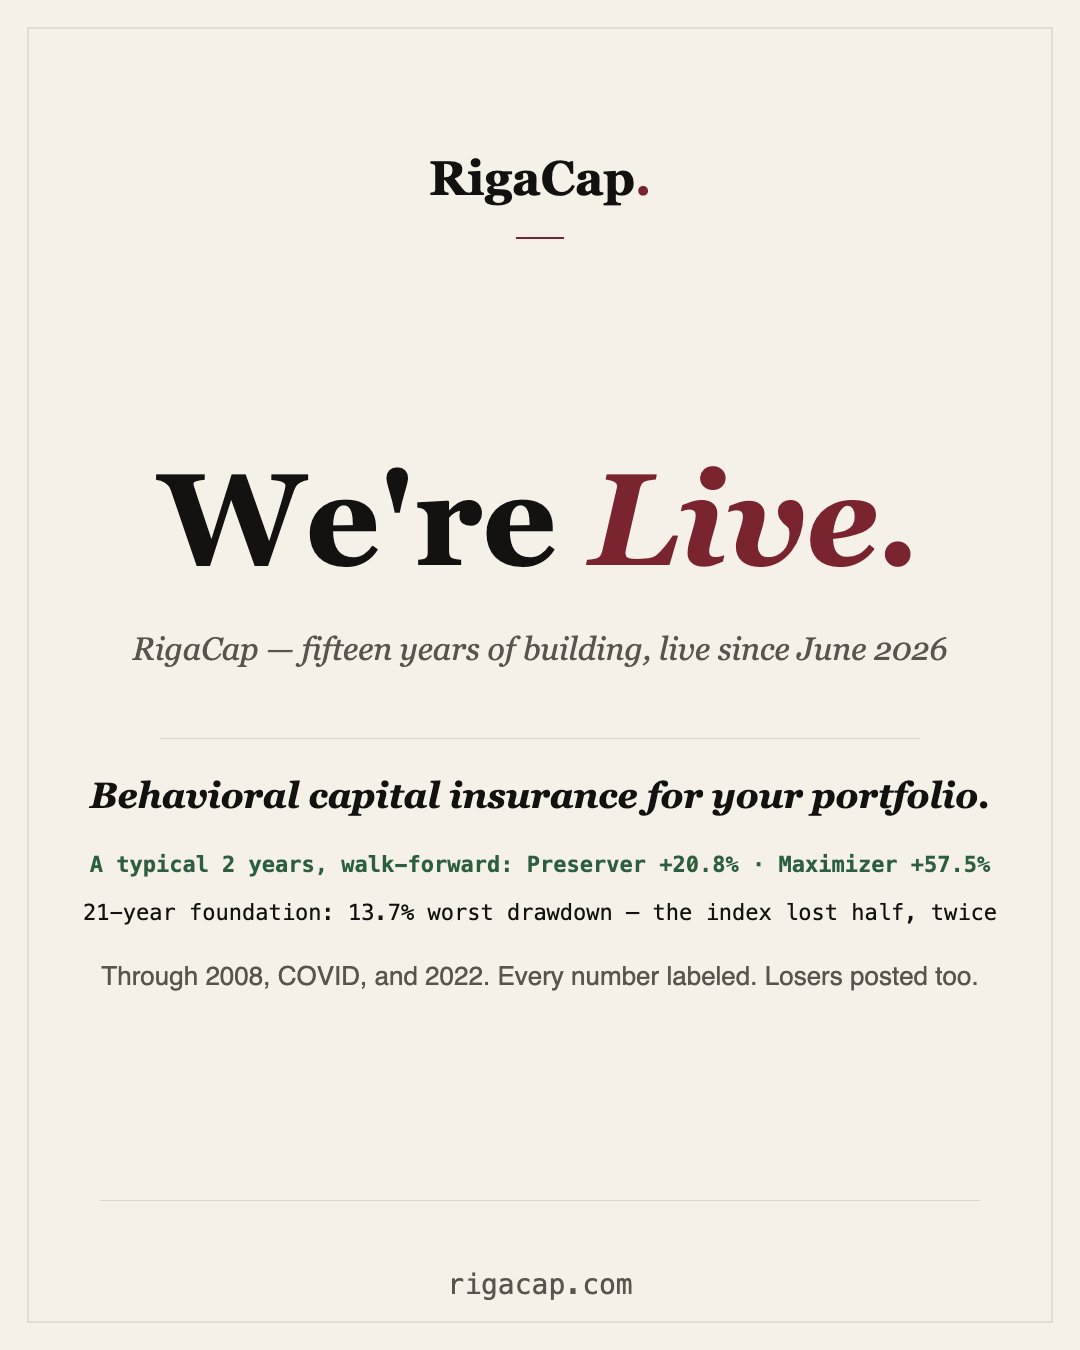
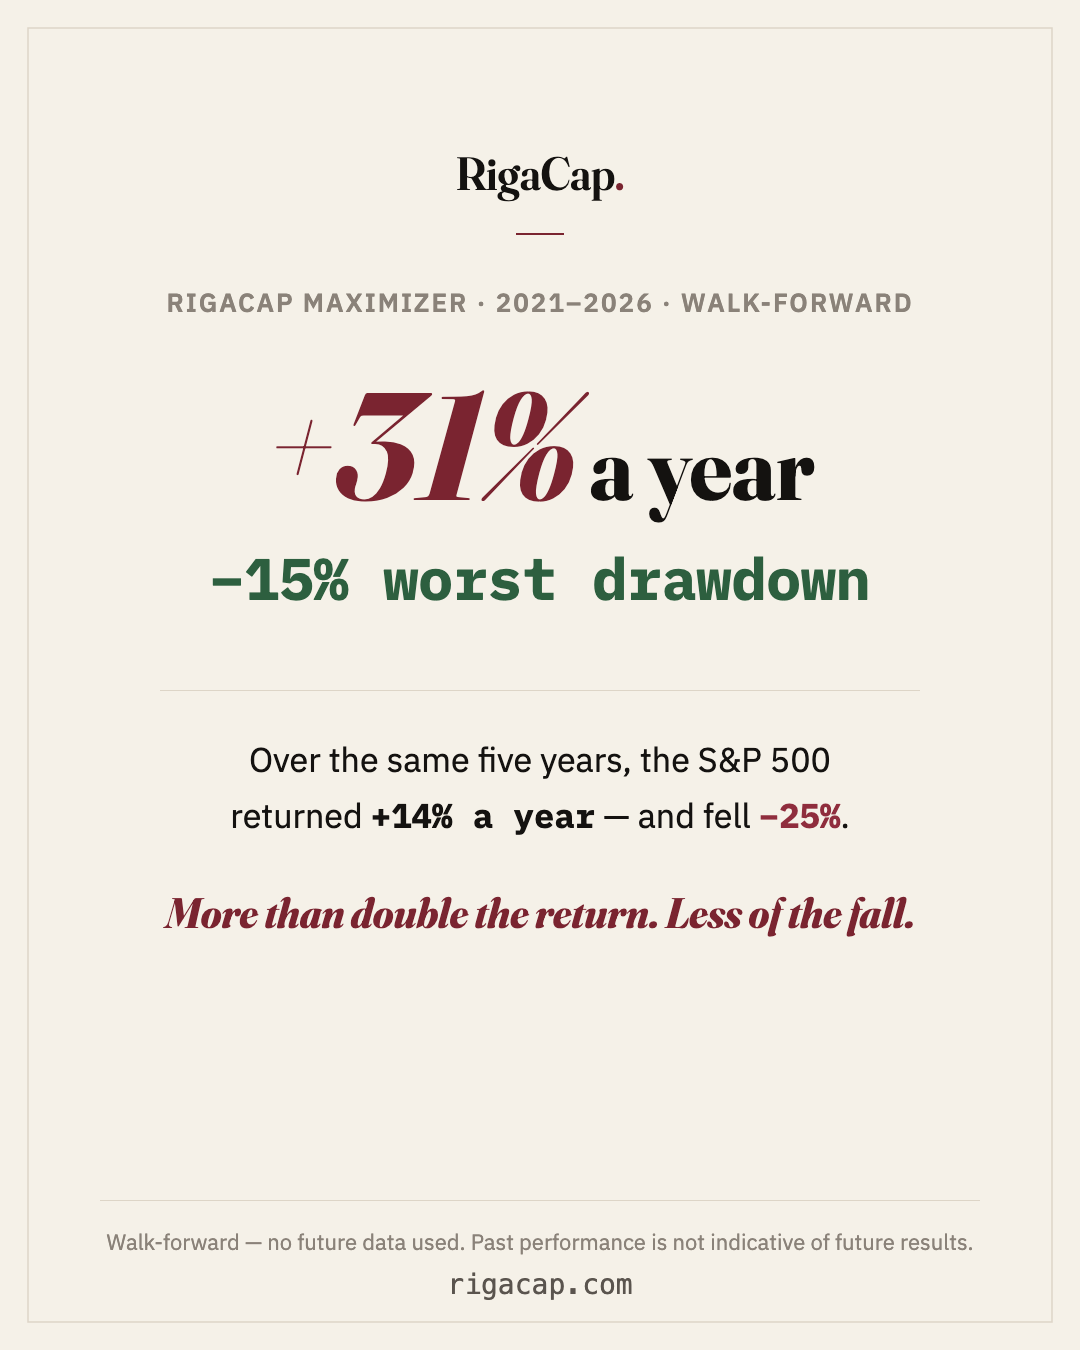
Launch cards: growth-forward refresh on current walk-forward numbers
The set was underselling — leading with the calm/defense story and hiding the strongest,
most current numbers (3 cards were stale from July 8). New arc leads with results:
1. The hook — Maximizer +31%/yr at only -15% drawdown vs the S&P's +14%/-25% (2021-26).
2. Bear defense — 2008 market -38%, RigaCap flat; ~a quarter of the market's downside.
3. The long game — 21-yr table (Maximizer leads), return beats the index at a fraction
   of the fall.
4. How it works (3-factor) — unchanged.
5. Signal teaser CTA — unchanged.

All numbers single-sourced from the overlay SSOT (perf_numbers). Loud on the numbers,
calm in the voice; every figure labeled walk-forward with disclaimers intact.

diff --git a/design/brand/social-launch-cards.html b/design/brand/social-launch-cards.html
@@ -25,24 +25,24 @@
 <p class="subtitle">Right-click any card and "Save Image As..." to download. All cards are 1080x1350 (4:5 ratio for Instagram).</p>
 <div class="grid">
   <div class="card-wrapper">
-    <h3>1. Launch Announcement</h3>
+    <h3>1. The Numbers</h3>
     <canvas id="card1" width="1080" height="1350"></canvas>
-    <p class="hint">We're Live</p>
+    <p class="hint">+31% a year, −15% drawdown</p>
   </div>
   <div class="card-wrapper">
-    <h3>2. 21-Year Results</h3>
+    <h3>2. Built for Bad Months</h3>
     <canvas id="card2" width="1080" height="1350"></canvas>
-    <p class="hint">Twenty-one years, walk-forward</p>
+    <p class="hint">Bear-market defense</p>
   </div>
   <div class="card-wrapper">
-    <h3>3. How the System Works</h3>
+    <h3>3. Twenty-One-Year Record</h3>
     <canvas id="card3" width="1080" height="1350"></canvas>
-    <p class="hint">3-Factor Entry + Exits</p>
+    <p class="hint">The long game, walk-forward</p>
   </div>
   <div class="card-wrapper">
-    <h3>4. The Months That Matter</h3>
+    <h3>4. How the System Works</h3>
     <canvas id="card4" width="1080" height="1350"></canvas>
-    <p class="hint">Worst months vs the system</p>
+    <p class="hint">3-Factor Entry + Exits</p>
   </div>
   <div class="card-wrapper">
     <h3>5. Signal Teaser</h3>
@@ -154,7 +154,7 @@ function drawFooter(ctx, w, h, note) {
   ctx.fillText('rigacap.com', w / 2, h - 56);
 }
 
-// Draw text, shrinking the font size until it fits maxWidth.
+// Hand-drawn sharpie ellipse — circles the number that is the product.
 function sharpieEllipse(ctx, cx, cy, rx, ry) {
   ctx.save();
   ctx.strokeStyle = CLARET;
@@ -175,6 +175,7 @@ function sharpieEllipse(ctx, cx, cy, rx, ry) {
   ctx.restore();
 }
 
+// Draw text, shrinking the font size until it fits maxWidth.
 function fitText(ctx, text, x, y, maxWidth, font) {
   ctx.font = font;
   let size = parseInt(font.match(/(\d+)px/)[1], 10);
@@ -186,7 +187,7 @@ function fitText(ctx, text, x, y, maxWidth, font) {
 }
 
 function drawAllCards() {
-// ── Card 1: Launch Announcement ──
+// ── Card 1: The Numbers (growth-forward hook) ──
 (function() {
   const c = document.getElementById('card1');
   const ctx = c.getContext('2d');
@@ -194,53 +195,130 @@ function drawAllCards() {
   fillPaper(ctx, w, h);
 
   // Wordmark, centered, with a short claret kicker beneath
-  drawWordmark(ctx, w / 2, 195, 48, 'center');
-  claretRule(ctx, w / 2 - 24, 238, 48);
+  drawWordmark(ctx, w / 2, 190, 46, 'center');
+  claretRule(ctx, w / 2 - 24, 234, 48);
 
-  // Headline — serif display, claret italic on the emphasis word
-  drawSegments(ctx, [
-    { text: "We're ", font: 'bold 130px ' + SERIF, color: INK },
-    { text: 'Live.', font: 'bold italic 130px ' + SERIF, color: CLARET },
-  ], w / 2, 565, 'center');
-
-  ctx.fillStyle = MUTED;
+  // Eyebrow — what this number is, so the headline can't be misread
+  ctx.fillStyle = FAINT;
+  ctx.font = '600 26px ' + SANS;
   ctx.textAlign = 'center';
-  fitText(ctx, 'RigaCap — fifteen years of building, live since June 2026', w / 2, 660, 900,
-    'italic 32px ' + SERIF);
+  drawTracked(ctx, 'RigaCap Maximizer · 2021–2026 · walk-forward', w / 2, 312, 2);
 
-  hairline(ctx, 160, w - 160, 738);
+  // Big headline number — the hook
+  drawSegments(ctx, [
+    { text: '+31%', font: 'bold italic 152px ' + SERIF, color: CLARET },
+    { text: ' a year', font: 'bold 92px ' + SERIF, color: INK },
+  ], w / 2, 500, 'center');
 
-  // Lead: behavioral-insurance framing + the recent held-out window;
-  // the 21-year foundation grounds it (8.3 alone reads 'meh' — analyst feedback)
-  ctx.fillStyle = INK;
-  fitText(ctx, 'Behavioral capital insurance for your portfolio.', w / 2, 808, 920,
-    'bold italic 36px ' + SERIF);
+  // Second stat — a small drawdown is a feature, so it's forest (positive)
   ctx.fillStyle = FOREST;
-  fitText(ctx, 'A typical 2 years, walk-forward: Preserver +20.8% · Maximizer +57.5%', w / 2, 872, 920,
-    'bold 27px ' + MONO);
-  ctx.fillStyle = INK;
-  fitText(ctx, '21-year foundation: 13.7% worst drawdown — the index lost half, twice', w / 2, 920, 920,
-    '26px ' + MONO);
-  ctx.fillStyle = MUTED;
-  fitText(ctx, 'Through 2008, COVID, and 2022. Every number labeled. Losers posted too.', w / 2, 985, 900,
-    '26px ' + SANS);
+  ctx.font = 'bold 58px ' + MONO;
+  ctx.textAlign = 'center';
+  ctx.fillText('−15% worst drawdown', w / 2, 600);
 
-  drawFooter(ctx, w, h, null);
+  hairline(ctx, 160, w - 160, 690);
+
+  // Comparison — we beat the index on BOTH return and pain
+  ctx.fillStyle = INK;
+  ctx.textAlign = 'center';
+  fitText(ctx, 'Over the same five years, the S&P 500', w / 2, 772, 900, '34px ' + SANS);
+  drawSegments(ctx, [
+    { text: 'returned ', font: '34px ' + SANS, color: INK },
+    { text: '+14% a year', font: 'bold 34px ' + MONO, color: INK },
+    { text: ' — and fell ', font: '34px ' + SANS, color: INK },
+    { text: '−25%', font: 'bold 34px ' + MONO, color: OXBLOOD },
+    { text: '.', font: '34px ' + SANS, color: INK },
+  ], w / 2, 828, 'center');
+
+  // Pull line — the editorial claim
+  ctx.fillStyle = CLARET;
+  ctx.textAlign = 'center';
+  fitText(ctx, 'More than double the return. Less of the fall.', w / 2, 928, 900, 'bold italic 42px ' + SERIF);
+
+  drawFooter(ctx, w, h, 'Walk-forward — no future data used. Past performance is not indicative of future results.');
 })();
 
-// ── Card 2: Twenty-one Years, Walk-Forward ──
+// ── Card 2: Built for the Bad Months (bear defense) ──
 (function() {
   const c = document.getElementById('card2');
   const ctx = c.getContext('2d');
   const w = 1080, h = 1350;
   fillPaper(ctx, w, h);
 
+  drawWordmark(ctx, 100, 122, 36);
+  drawEyebrow(ctx, 100, 190, 'What happens when the market breaks');
+  drawSegments(ctx, [
+    { text: 'Built for the ', font: '54px ' + SERIF, color: INK },
+    { text: 'bad months.', font: 'italic 54px ' + SERIF, color: CLARET },
+  ], 100, 272, 'left');
+  hairline(ctx, 100, w - 100, 318);
+
+  // 2008 headline block
+  ctx.textAlign = 'center';
+  ctx.fillStyle = FAINT;
+  ctx.font = '600 26px ' + SANS;
+  drawTracked(ctx, '2008 — the worst year in a generation', w / 2, 432, 2);
+
+  drawSegments(ctx, [
+    { text: 'The market fell ', font: '44px ' + SERIF, color: INK },
+    { text: '−38%', font: 'bold 44px ' + MONO, color: OXBLOOD },
+    { text: '.', font: '44px ' + SERIF, color: INK },
+  ], w / 2, 516, 'center');
+  drawSegments(ctx, [
+    { text: 'RigaCap finished ', font: '44px ' + SERIF, color: INK },
+    { text: 'flat', font: 'bold italic 44px ' + SERIF, color: FOREST },
+    { text: '.', font: '44px ' + SERIF, color: INK },
+  ], w / 2, 584, 'center');
+
+  hairline(ctx, 160, w - 160, 662);
+
+  // Down-month capture bars
+  drawEyebrow(ctx, 100, 748, "In the market's down months");
+  const barX = 360, barMaxW = 500, barH = 42, capMax = 3.85;
+  const capBars = [
+    { name: 'S&P 500', v: 3.85, color: OXBLOOD, label: '−3.85%' },
+    { name: 'RigaCap', v: 0.97, color: FOREST, label: '−0.97%' },
+  ];
+  let by = 806;
+  capBars.forEach(b => {
+    ctx.fillStyle = MUTED;
+    ctx.font = '26px ' + SANS;
+    ctx.textAlign = 'left';
+    ctx.fillText(b.name, 110, by + barH / 2 + 9);
+    const bw = Math.max(30, barMaxW * b.v / capMax);
+    ctx.fillStyle = b.color;
+    ctx.fillRect(barX, by, bw, barH);
+    ctx.fillStyle = INK;
+    ctx.font = 'bold 26px ' + MONO;
+    ctx.fillText(b.label, barX + bw + 16, by + barH / 2 + 9);
+    by += barH + 48;
+  });
+
+  ctx.fillStyle = MUTED;
+  ctx.textAlign = 'center';
+  fitText(ctx, 'Average return in the months the S&P 500 fell.', w / 2, by + 18, 900, '26px ' + SANS);
+
+  // Pull line
+  ctx.fillStyle = CLARET;
+  ctx.textAlign = 'center';
+  fitText(ctx, "About a quarter of the market's downside.", w / 2, by + 118, 900, 'bold italic 42px ' + SERIF);
+
+  drawFooter(ctx, w, h, 'Walk-forward, 2007–2026. Not investment advice.');
+})();
+
+// ── Card 3: Twenty-one Years, Walk-Forward (the long game) ──
+(function() {
+  const c = document.getElementById('card3');
+  const ctx = c.getContext('2d');
+  const w = 1080, h = 1350;
+  fillPaper(ctx, w, h);
+
   // Header
   drawWordmark(ctx, 100, 122, 36);
-  drawEyebrow(ctx, 100, 190, '2007–2026 · walk-forward · price returns · no hindsight');
+  drawEyebrow(ctx, 100, 190, '2007–2026 · walk-forward · no hindsight');
   drawSegments(ctx, [
-    { text: 'Twenty-one years, ', font: '54px ' + SERIF, color: INK },
-    { text: 'walk-forward.', font: 'italic 54px ' + SERIF, color: CLARET },
+    { text: 'The ', font: '54px ' + SERIF, color: INK },
+    { text: 'long game.', font: 'italic 54px ' + SERIF, color: CLARET },
   ], 100, 272, 'left');
   hairline(ctx, 100, w - 100, 318);
 
@@ -257,16 +335,16 @@ function drawAllCards() {
   drawTracked(ctx, 'Worst DD', ddX, y, 3);
   hairline(ctx, 100, w - 100, y + 22);
 
+  // Maximizer leads (growth-forward); Preserver next; index last.
   const rows = [
+    { name: 'RigaCap Maximizer', ann: '13.5%', sharpe: '0.93', dd: '−20.8%', ddColor: FOREST, highlight: true, circleAnn: true },
     { name: 'RigaCap Preserver', ann: '7.7%', sharpe: '0.87', dd: '−13.7%', ddColor: FOREST, highlight: true },
-    { name: 'RigaCap Maximizer', ann: '13.5%', sharpe: '0.93', dd: '−20.8%', ddColor: FOREST, highlight: true },
     { name: 'S&P 500', ann: '9.8%', sharpe: '—', dd: '−55%', ddColor: OXBLOOD, highlight: false },
   ];
 
   y += 100;
   rows.forEach(row => {
     if (row.highlight) {
-      // Claret inset bar — same device as the live performance table
       ctx.fillStyle = CLARET;
       ctx.fillRect(100, y - 38, 3, 54);
     }
@@ -286,21 +364,21 @@ function drawAllCards() {
     ctx.font = (row.highlight ? 'bold ' : '') + '30px ' + MONO;
     ctx.fillText(row.dd, ddX, y);
 
-    if (row.highlight) {
-      // hand-drawn sharpie circle around the number that is the product
-      sharpieEllipse(ctx, ddX - 58, y - 10, 98, 42);
+    // Circle the return that beats the index — the growth-forward point
+    if (row.circleAnn) {
+      sharpieEllipse(ctx, annX - 42, y - 10, 82, 40);
     }
     hairline(ctx, 100, w - 100, y + 32);
     y += 96;
   });
 
-  // Drawdown bar comparison — the point of the card
+  // Drawdown bar comparison
   let by = y + 60;
   drawEyebrow(ctx, 100, by, 'Worst drawdown, visualized');
 
   const bars = [
-    { name: 'Preserver', dd: 13.7, color: FOREST, label: '−13.7%' },
     { name: 'Maximizer', dd: 20.8, color: FOREST, label: '−20.8%' },
+    { name: 'Preserver', dd: 13.7, color: FOREST, label: '−13.7%' },
     { name: 'S&P 500', dd: 55, color: OXBLOOD, label: '−55%' },
   ];
   const barX = 350, barMaxW = 500, barH = 26, ddMax = 57;
@@ -322,18 +400,18 @@ function drawAllCards() {
     by += barH + 38;
   });
 
-  // Pull line — serif italic claret, the editorial voice
+  // Pull line — growth AND resilience
   ctx.fillStyle = CLARET;
   ctx.textAlign = 'center';
-  fitText(ctx, 'The return you can hold through is the one you collect.', w / 2, by + 90, 900,
+  fitText(ctx, 'More return than the index — at a fraction of the fall.', w / 2, by + 90, 900,
     'italic 34px ' + SERIF);
 
   drawFooter(ctx, w, h, 'Walk-forward tested: no future data used in any period.');
 })();
 
-// ── Card 3: How the System Works (3-Factor) ──
+// ── Card 4: How the System Works (3-Factor) ──
 (function() {
-  const c = document.getElementById('card3');
+  const c = document.getElementById('card4');
   const ctx = c.getContext('2d');
   const w = 1080, h = 1350;
   fillPaper(ctx, w, h);
@@ -419,86 +497,6 @@ function drawAllCards() {
     '26px ' + SANS);
 
   drawFooter(ctx, w, h, 'Walk-forward tested: no future data used in any period.');
-})();
-
-// ── Card 4: The Months That Matter ──
-(function() {
-  const c = document.getElementById('card4');
-  const ctx = c.getContext('2d');
-  const w = 1080, h = 1350;
-  fillPaper(ctx, w, h);
-
-  // Header
-  drawWordmark(ctx, 100, 122, 36);
-  claretRule(ctx, 100, 176, 44);
-  drawSegments(ctx, [
-    { text: 'The months that ', font: '54px ' + SERIF, color: INK },
-    { text: 'matter.', font: 'italic 54px ' + SERIF, color: CLARET },
-  ], 100, 256, 'left');
-
-  ctx.fillStyle = MUTED;
-  ctx.textAlign = 'left';
-  fitText(ctx, "The index's six worst months in 21 years — and where Preserver was (walk-forward)", 100, 308, 880,
-    '23px ' + SANS);
-
-  hairline(ctx, 100, w - 100, 348);
-
-  // Table header — tracked uppercase, numbers right-aligned mono
-  const monthX = 110, spyX = 620, rigaX = 860;
-  let y = 428;
-  ctx.fillStyle = FAINT;
-  ctx.font = '600 24px ' + SANS;
-  ctx.textAlign = 'left';
-  drawTracked(ctx, 'Month', monthX, y, 3);
-  ctx.textAlign = 'right';
-  drawTracked(ctx, 'S&P 500', spyX, y, 3);
-  drawTracked(ctx, 'Preserver', rigaX, y, 3);
-  hairline(ctx, 100, w - 100, y + 22);
-
-  const rows = [
-    { month: 'Oct 2008', spy: '−16.5%', riga: '0.0%', cash: true },
-    { month: 'Mar 2020', spy: '−13.0%', riga: '0.0%', cash: true },
-    { month: 'Feb 2009', spy: '−10.7%', riga: '0.0%', cash: true },
-    { month: 'Sep 2008', spy: '−9.9%', riga: '0.0%', cash: true },
-    { month: 'Sep 2022', spy: '−9.6%', riga: '0.0%', cash: true },
-    { month: 'Dec 2018', spy: '−9.3%', riga: '−1.0%', cash: false },
-  ];
-
-  const rowStep = 92;
-  y += 92;
-  rows.forEach(r => {
-    ctx.textAlign = 'left';
-    ctx.fillStyle = INK;
-    ctx.font = '30px ' + SANS;
-    ctx.fillText(r.month, monthX, y);
-
-    ctx.textAlign = 'right';
-    ctx.fillStyle = OXBLOOD;
-    ctx.font = '30px ' + MONO;
-    ctx.fillText(r.spy, spyX, y);
-
-    ctx.fillStyle = r.cash ? FOREST : INK;
-    ctx.font = (r.cash ? 'bold ' : '') + '30px ' + MONO;
-    ctx.fillText(r.riga, rigaX, y);
-
-    if (r.cash) {
-      ctx.textAlign = 'left';
-      ctx.fillStyle = CLARET;
-      ctx.font = 'italic 24px ' + SERIF;
-      ctx.fillText('— in cash', 895, y);
-    }
-
-    hairline(ctx, 100, w - 100, y + 30);
-    y += rowStep;
-  });
-
-  // Punch line — serif italic claret
-  ctx.fillStyle = CLARET;
-  ctx.textAlign = 'center';
-  fitText(ctx, 'Five of the six, it had already gone to cash.', w / 2, y + 70, 900,
-    'italic 37px ' + SERIF);
-
-  drawFooter(ctx, w, h, 'Walk-forward monthly returns, 2007–2026. Not investment advice.');
 })();
 
 // ── Card 5: Signal Teaser ──
